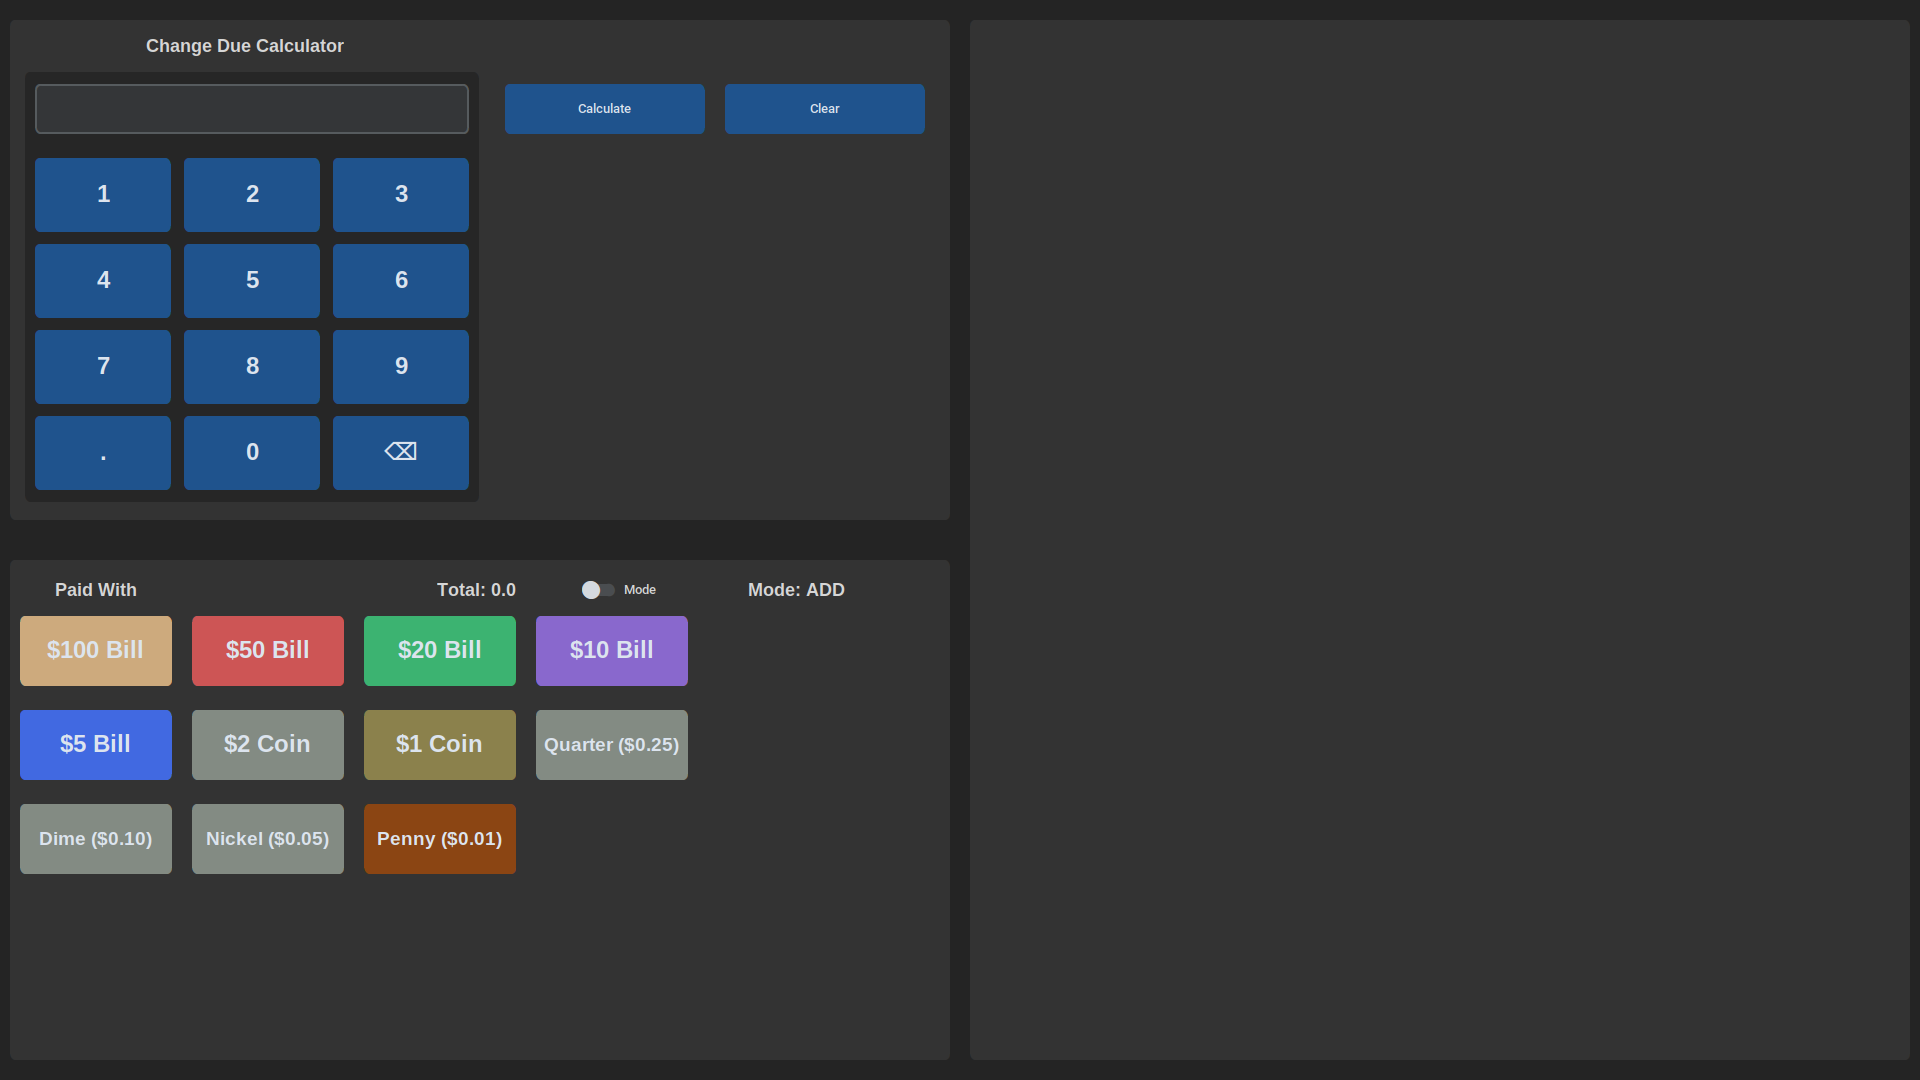
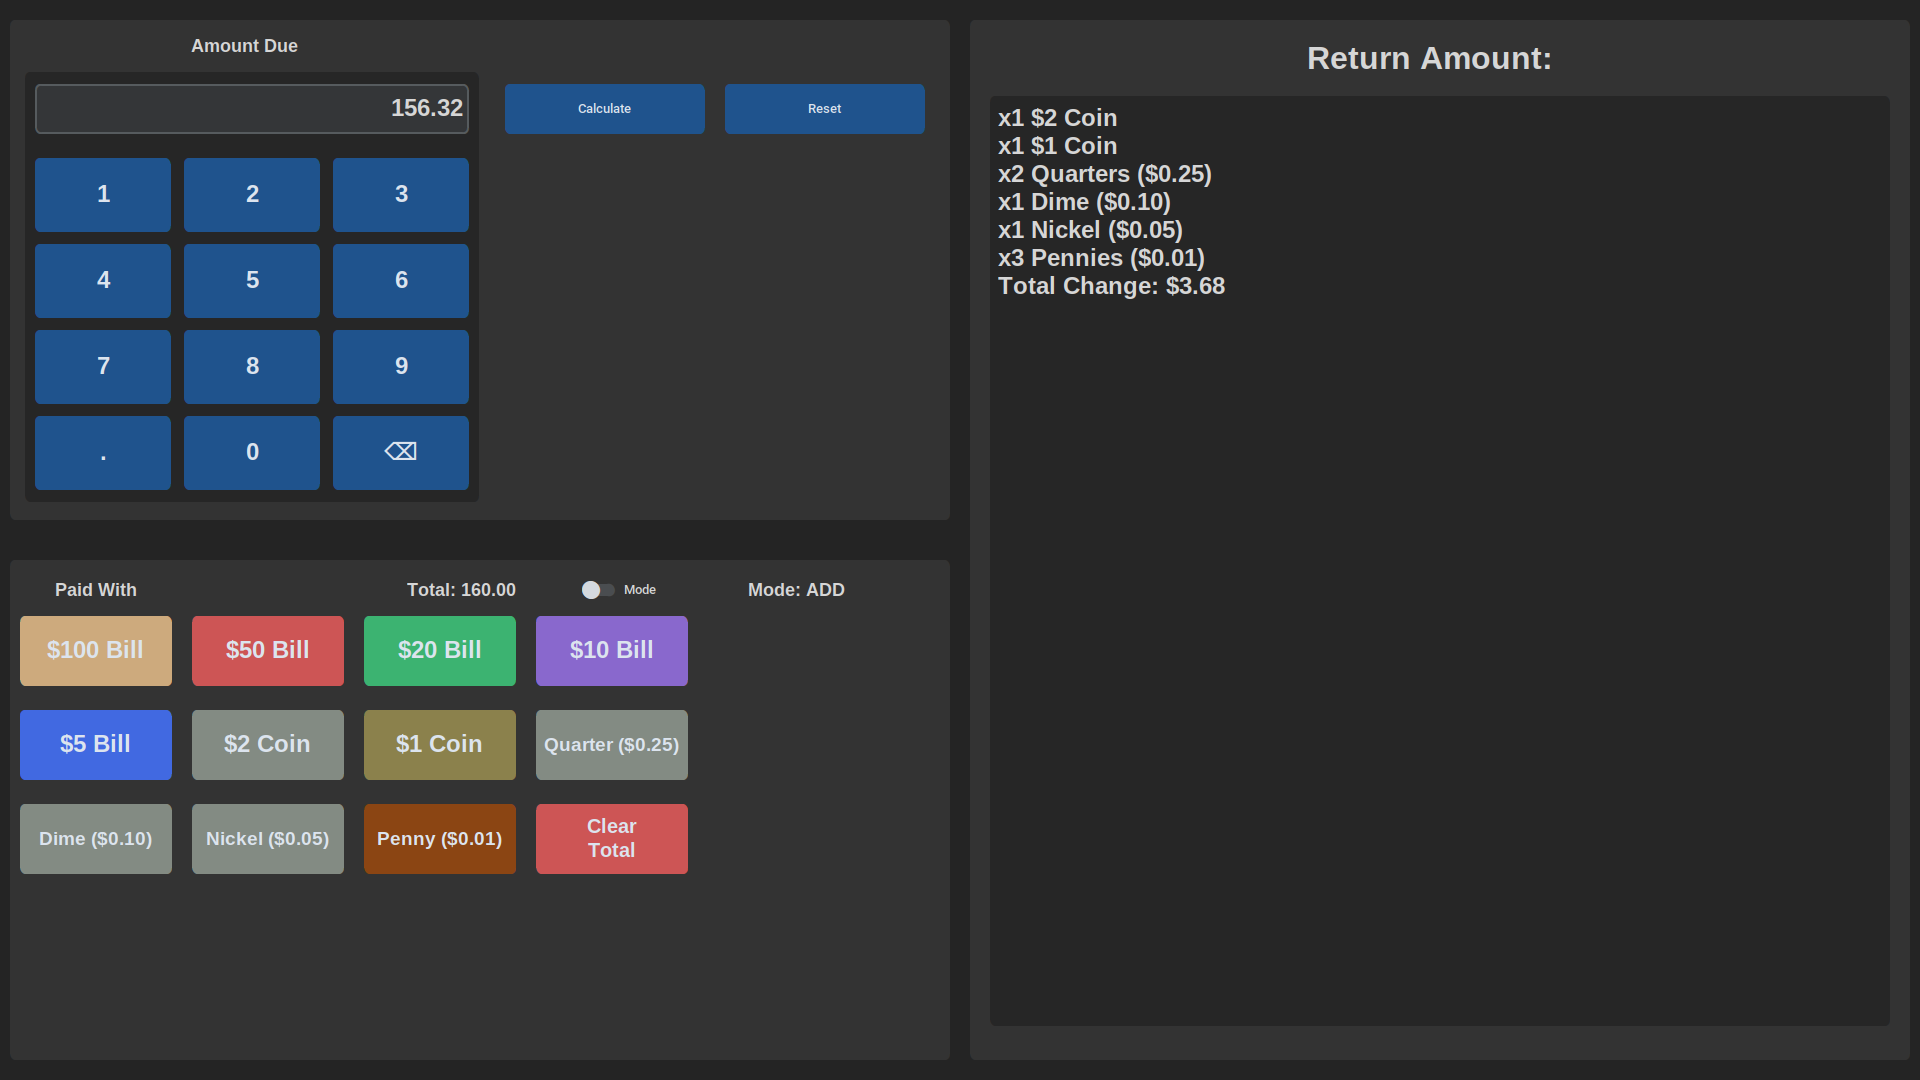
show calculated change due

diff --git a/__main__.py b/__main__.py
@@ -1,7 +1,8 @@
 #!/usr/bin/env python3.11
 from customtkinter import set_appearance_mode, set_default_color_theme
-from customtkinter import CTk, CTkEntry, CTkButton, CTkLabel, CTkFrame, CTkSwitch, StringVar
+from customtkinter import CTk, CTkEntry, CTkButton, CTkLabel, CTkFrame, CTkSwitch, StringVar, CTkTextbox, END
 from currencyButtons import initializeCurrencyButtons
+from math import floor
 
 class Window(CTk):
 	def __init__(self):
@@ -139,13 +140,20 @@ class Window(CTk):
 
 		clearButton: CTkButton = CTkButton(
 			master=actionFrame,
-			text="Clear",
+			text="Reset",
 			command=self.clear,
 			width=200,
 			height=50
 		)
 		clearButton.grid(row=1, column=3, pady=12, padx=10)
 		
+		self.warningLabel: CTkLabel = CTkLabel(
+			master=actionFrame,
+			text="Not enough cash provided.\nAdd to total paid below.",
+			text_color="red",
+			font=("Arial", 14, 'bold')
+		)
+
 		# Left frame bottom
 		self.left_frame_bottom: CTkFrame = CTkFrame(
 			master=self,
@@ -218,6 +226,23 @@ class Window(CTk):
 		self.right_frame.grid_propagate(False)
 		self.right_frame.grid(row=0, column=1, pady=20, padx=10)
 
+		returnAmountLabel: CTkLabel = CTkLabel(
+			master=self.right_frame,
+			text="Return Amount:",
+			font=("Arial", 32, 'bold')
+		)
+		returnAmountLabel.grid(row=0, column=0, pady=20, padx=30)
+
+		self.returnAmountBox: CTkTextbox = CTkTextbox(
+			master=self.right_frame,
+			width=(self.width / 2 - 60),
+			height=(self.height - 150),
+			font=("Arial", 24, 'bold'),
+			fg_color="gray15"
+		)
+		self.returnAmountBox.configure(state="disabled")
+		self.returnAmountBox.grid(row=1, column=0, padx=(20, 0))
+
 		self.mainloop()
 
 	def updateMode(self) -> None:
@@ -227,10 +252,45 @@ class Window(CTk):
 	def quitApplication(self, event=None) -> None: self.destroy()
 
 	def calculate(self) -> None:
-		amountDue: float = float(self.amount.get())
-		print(amountDue)
+		self.returnAmountBox.configure(state="normal")
+		self.returnAmountBox.delete('1.0', END)
+		self.warningLabel.grid_forget()
+		amountDue:    float = float(self.amount.get())
+		returnAmount: float = round(self.total - amountDue, 2)
+		print(self.total, amountDue, returnAmount)
+		if returnAmount < 0:
+			self.warningLabel.grid(row=2, column=2, pady=12, padx=10)
+			return
+		
+		denominationsStrings: dict[float: str] = {
+			100.0: '$100 BillX',
+			50.0:  '$50 BillX',
+			20.0:  '$20 BillX',
+			10.0:  '$10 BillX',
+			5.0:   '$5 BillX',
+			2.0:   '$2 CoinX',
+			1.0:   '$1 CoinX',
+			0.25:  'QuarterX ($0.25)',
+			0.10:  'DimeX ($0.10)',
+			0.05:  'NickelX ($0.05)',
+			0.01:  'PennX ($0.01)'
+		}
+		returnAmountString: str = ""
+		for d in denominationsStrings:
+			due = floor(returnAmount / d)
+			returnAmount -= due * d
+			denominationEnd = "s" if due > 1 else ""
+			if d == 0.01: denominationEnd = "ies" if due > 1 else "y"
+			if due > 0: returnAmountString += f"x{due} {denominationsStrings[d].replace('X', denominationEnd)}\n"
+			if returnAmount == 0: break
+
+		returnAmountString += f"Total Change: ${round(self.total - amountDue, 2)}"
+
+		self.returnAmountBox.insert('1.0', returnAmountString)
+		self.returnAmountBox.configure(state="disabled")
 
 	def sum(self, value: float) -> None:
+		self.warningLabel.grid_forget()
 		if self.total == 0 and not self.mode: return
 		self.total += value * (1 if self.mode else -1)
 		if self.total < 0: self.total = 0
@@ -247,6 +307,11 @@ class Window(CTk):
 
 	def clear(self) -> None:
 		self.amount.set("")
+		self.total: float = 0.0
+		self.totalLabel.configure(text=f"Total: {self.total:.2f}")
+		self.returnAmountBox.configure(state="normal")
+		self.returnAmountBox.delete('1.0', END)
+		self.returnAmountBox.configure(state="disabled")
 	
 	def clearTotal(self) -> None:
 		self.total: float = 0.0
